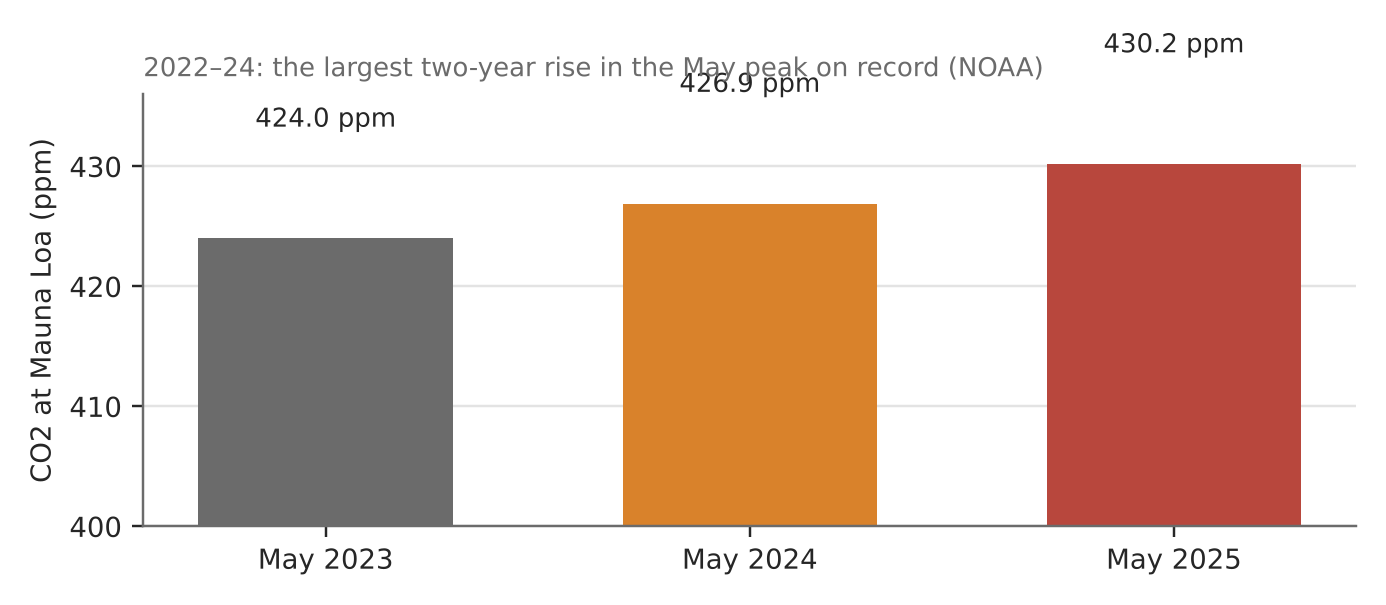
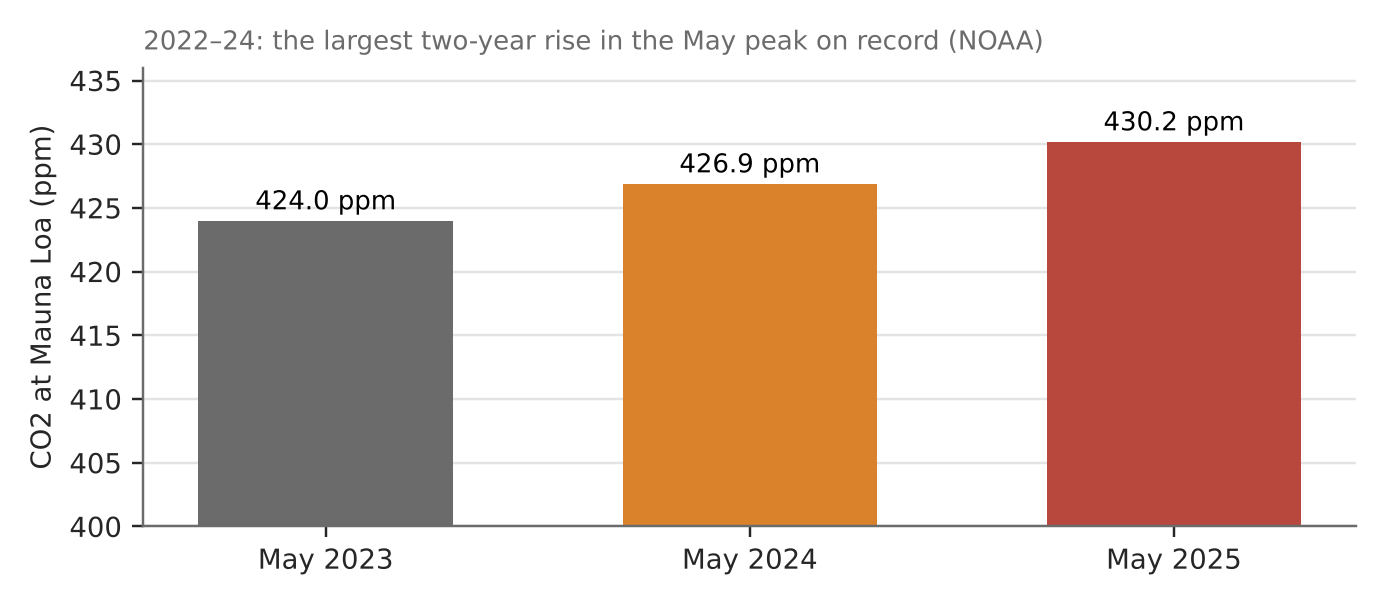
3f: charts for Topic 3.2 cases
Claude-Session: https://claude.ai/code/session_013xMY7jADqJsCLYm4VFjiuL

diff --git a/tools/case_charts.py b/tools/case_charts.py
@@ -846,11 +846,13 @@ def amazon_carbon(path):
 
 def mauna_loa(path):
     fig, ax = plt.subplots(figsize=SIZE)
-    bars(ax, ['May 2023', 'May 2024', 'May 2025'], [424.0, 426.9, 430.2], [MUTED, ORANGE, RED], lambda v: f"{v:.1f} ppm",
-         ylabel='CO2 at Mauna Loa (ppm)', ymax=440)
-    ax.set_ylim(400, 436)
+    labels, vals = ['May 2023', 'May 2024', 'May 2025'], [424.0, 426.9, 430.2]
+    ax.bar(labels, vals, color=[MUTED, ORANGE, RED], width=0.6)
+    for x, v in zip(labels, vals):
+        ax.text(x, v + 0.4, f"{v:.1f} ppm", ha='center', va='bottom', fontsize=8.5)
+    ax.set_ylim(400, 436); ax.set_ylabel('CO2 at Mauna Loa (ppm)')
     ax.set_title('2022–24: the largest two-year rise in the May peak on record (NOAA)', fontsize=8.5, color=MUTED, loc='left')
-    save(fig, path)
+    tidy(ax); save(fig, path)
 
 
 def imo2020(path):
@@ -914,7 +916,7 @@ def thwaites(path):
     ax.barh(3, 40, left=40, color=ORANGE, height=0.5)
     ax.text(82, 3, '40–80 cm', va='center', fontsize=8.5)
     ax.barh(2, 200, color=RED, height=0.5); ax.text(202, 2, 'up to ~2 m', va='center', fontsize=8.5)
-    ax.barh(1, 65, color=BLUE, height=0.5); ax.text(67, 1, '65 cm (over centuries)', va='center', fontsize=8.5)
+    ax.barh(1, 65, color=BLUE, height=0.5); ax.text(67, 1, '65 cm (if it fully collapsed)', va='center', fontsize=8.5)
     ax.barh(0, 300, color=MUTED, height=0.5); ax.text(250, 0, '3 m+', va='center', fontsize=8.5, color='white')
     ax.set_yticks(y); ax.set_yticklabels(labels); ax.set_xlim(0, 330); ax.set_xlabel('Global sea-level rise (cm)')
     for s_ in ('top', 'right'):
@@ -940,11 +942,11 @@ def sg_coast(path):
 
 def urgenda(path):
     even_timeline(path, [
-        ('2013', 'Urgenda and ~900\ncitizens sue the\nDutch state', BLUE, 1),
+        ('2013', 'Urgenda takes the\nDutch state to\ncourt', BLUE, 1),
         ('Jun 2015', 'District Court:\ncut emissions\n25% by 2020', GREEN, -1),
         ('Oct 2018', 'Court of Appeal\nupholds it', GREEN, 1),
         ('Dec 2019', 'Supreme Court:\nfinal ruling', GREEN, -1),
-        ('2020', 'Emissions about\n23–25% below\n1990 (estimates)', ORANGE, 1)])
+        ('2020', 'Forecast: about\n23% below 1990\n(before the ruling)', ORANGE, 1)])
 
 
 def orsted(path):
